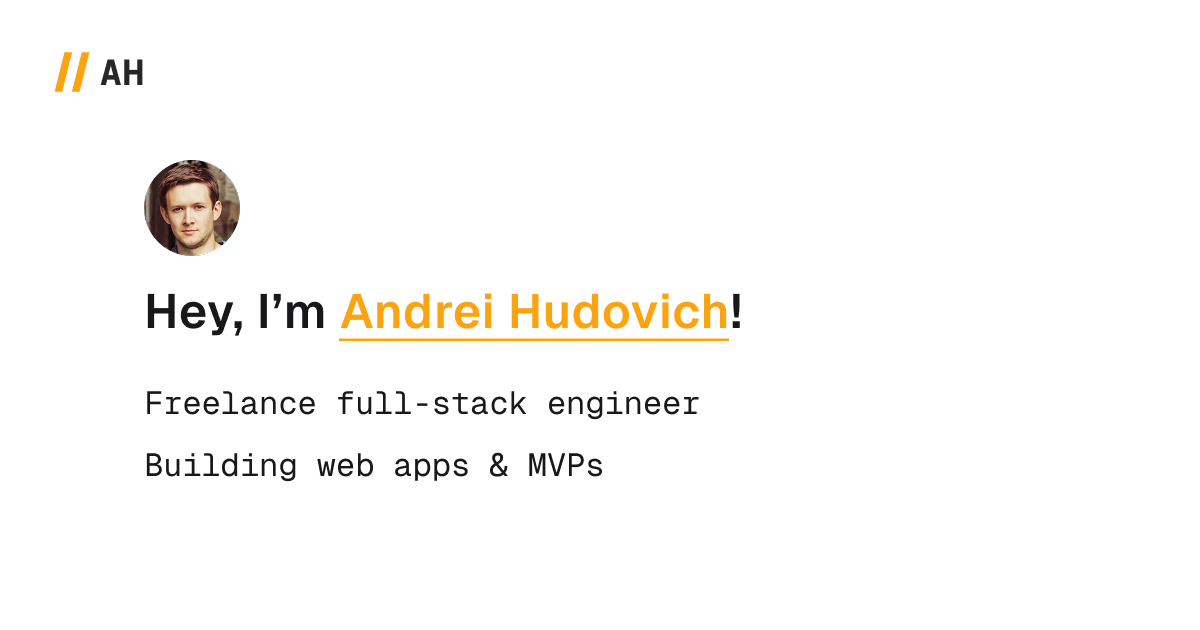
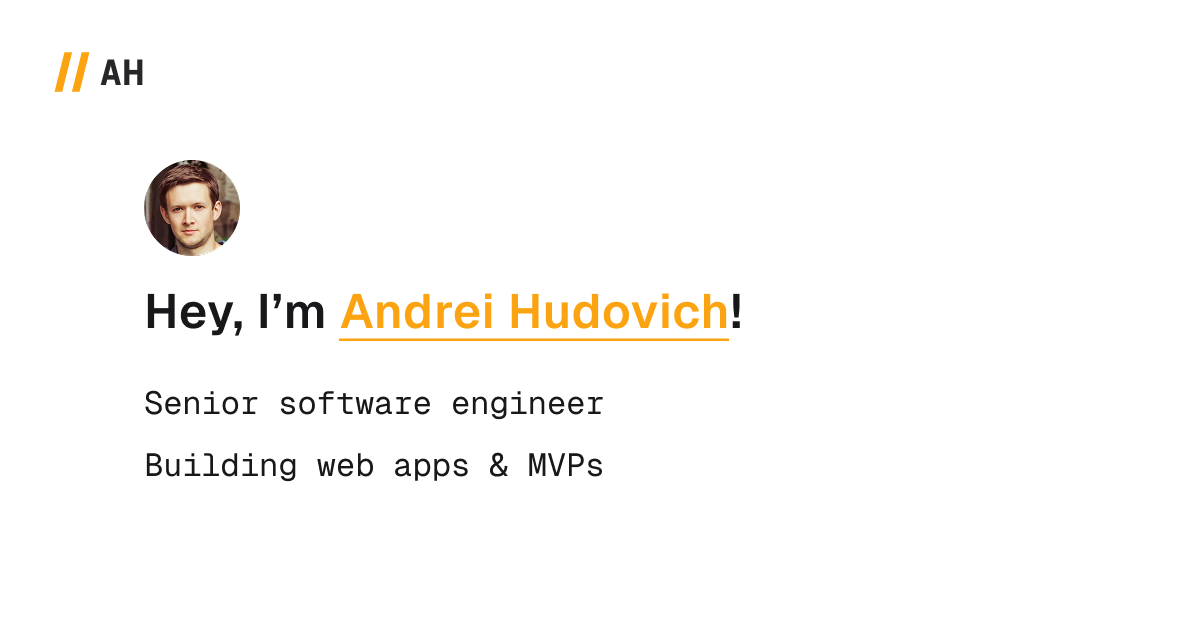
chore: update my job title

Changed region(s): [[0.1233, 0.6032, 0.5858, 0.6635]]

diff --git a/components/pages/home/HomeHero.tsx b/components/pages/home/HomeHero.tsx
@@ -23,8 +23,7 @@ export function HomeHero() {
       <div className="mb-5 text-md leading-[1.75] space-y-1.75">
         <p>
           <span className="sm:inline-block sm:mb-1.75">
-            A full-stack software engineer based in Wroclaw,{' '}
-            <span className="sm:hidden">Poland. </span>
+            A senior software engineer based in Wroclaw, <span className="sm:hidden">Poland. </span>
             <span className="hidden sm:inline-flex sm:items-center sm:gap-1.5">
               Poland
               <IconFlagPoland className="shrink-0 w-3 h-[0.5625rem] rounded-xs drop-shadow-[0_0_1px_rgba(0,0,0,0.1)]" />

diff --git a/app/page.tsx b/app/page.tsx
@@ -6,9 +6,9 @@ import { HomeTechStack } from '@/components/pages/home/HomeTechStack'
 import type { Metadata } from 'next'
 
 export const metadata: Metadata = {
-  title: 'Andrei Hudovich - Full-Stack Software Engineer',
+  title: 'Andrei Hudovich - Senior Software Engineer',
   description:
-    "A full-stack software engineer based in Wroclaw, Poland. If you need a reliable developer to join your team, I'm ready to dive in.",
+    "A senior software engineer based in Wroclaw, Poland. If you need a reliable developer to join your team, I'm ready to dive in.",
   alternates: {
     canonical: '/',
   },
